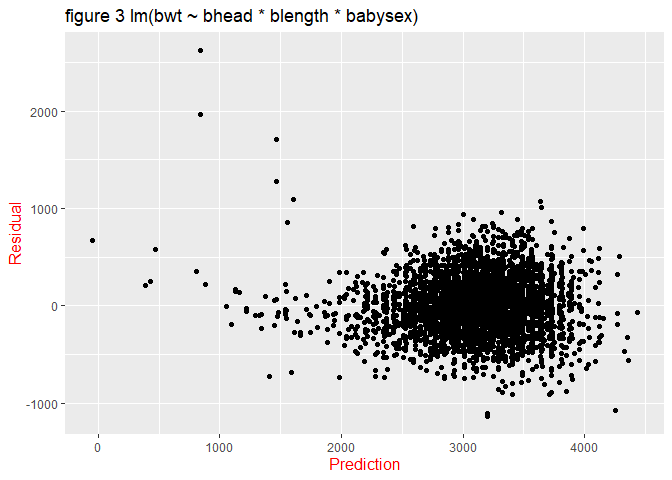
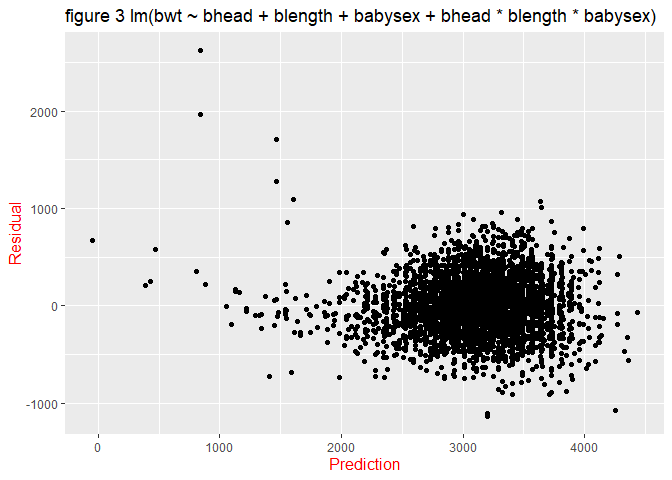
modify the model 3 and add comments

Changed region(s): [[0.375, 0.0, 0.9688, 0.0625]]

diff --git a/p8105_hw6_yh2736.md b/p8105_hw6_yh2736.md
@@ -151,7 +151,8 @@ birth_weight_dataset %>%
 
 ``` r
 ###using head circumference, length, sex, and all interactions (including the three-way interaction)
-fit3 <- lm(bwt ~ bhead * blength * babysex, data = birth_weight_dataset)
+fit3 <- lm(bwt ~ bhead + blength + babysex + bhead * blength * babysex, 
+           data = birth_weight_dataset)
 
 ###Draw a plot 
 birth_weight_dataset %>% 
@@ -168,7 +169,7 @@ birth_weight_dataset %>%
                                 color = "red")
   ) +
   labs(
-    title = "figure 3 lm(bwt ~ bhead * blength * babysex) "
+    title = "figure 3 lm(bwt ~ bhead + blength + babysex + bhead * blength * babysex) "
   )
 ```
 
@@ -184,7 +185,8 @@ cv_birth_weight <- crossv_mc(birth_weight_dataset, 100) %>%
   mutate(
     linear_mode1 = map(train, ~lm(bwt ~ babysex + mrace, data = .x)),
     linear_mode2 = map(train, ~lm(bwt ~ blength + gaweeks, data = .x)),
-    linear_mode3 = map(train, ~lm(bwt ~ bhead * blength * babysex, data = .x))
+    linear_mode3 = map(train, ~lm(bwt ~ bhead + blength + babysex + bhead * blength * babysex,  
+                                  data = .x))
   ) %>% 
   mutate(
     rmse_linear_mode1 = map2_dbl(linear_mode1, test, ~rmse(model = .x, data = .y)),
@@ -219,7 +221,12 @@ cv_birth_weight %>%
 
 ![](p8105_hw6_yh2736_files/figure-gfm/unnamed-chunk-6-1.png)<!-- -->
 
-# problem 3
+*Figure4 indicates that the model including head circumference, length,
+sex, and all interactions performs best with a lowest RMSE. On the other
+hand, the model I proposed using baby’s sex and mother’s race has lowest
+capacity of prediction of baby’s birth weight.*
+
+# problem 2
 
 ``` r
 ###download the data
